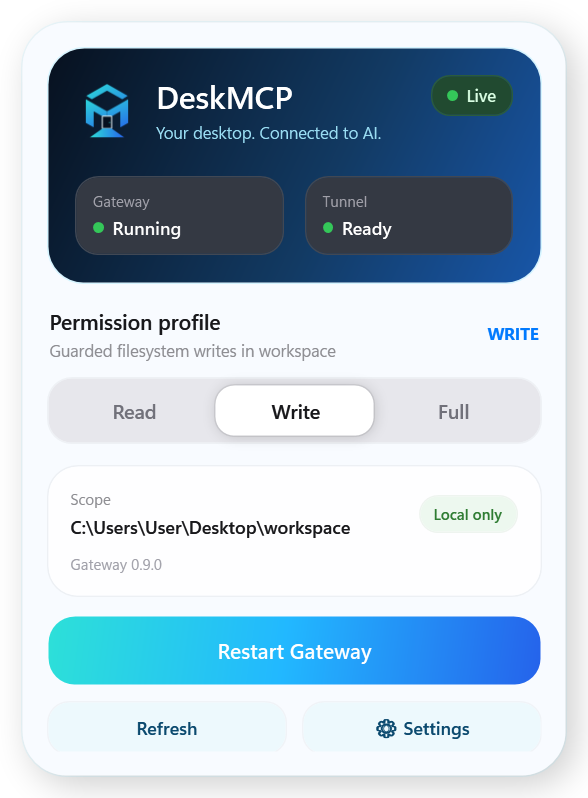
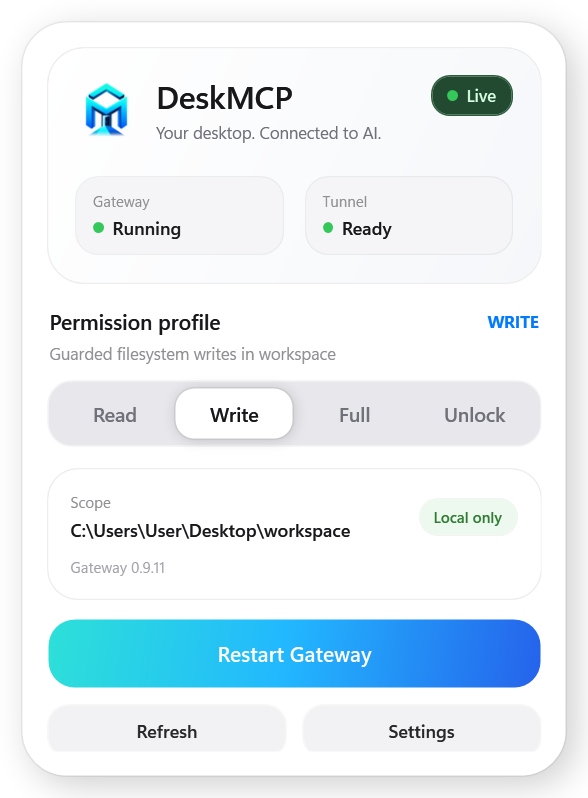
docs: sync release site with current runtime

diff --git a/site/index.html b/site/index.html
@@ -39,13 +39,13 @@
       <div class="hero-copy">
         <div class="hero-label">LOCAL-FIRST · OPEN SOURCE · WINDOWS</div>
         <h1>Your desktop.<br /><span>Connected to AI.</span></h1>
-        <p>DeskMCP gives ChatGPT a controlled path to Windows files, background terminal sessions and opt-in visible CMD or PowerShell consoles — while permission decisions and UAC approval stay on your machine.</p>
+        <p>DeskMCP gives ChatGPT a controlled path to Windows files, owned terminal sessions, Windows UI, isolated Browser Automation and multi-agent virtual desktops — while permission decisions and UAC approval stay on your machine.</p>
         <div class="hero-actions">
           <a class="button button-primary" href="#download">Download for Windows <span>↗</span></a>
           <a class="button button-ghost" href="#start">Read the quick start</a>
         </div>
         <div class="hero-proof">
-          <span><b>26</b> MCP tools</span>
+          <span><b>27</b> MCP tools</span>
           <span><b>2</b> native Windows architectures</span>
           <span><b>0</b> cloud-side filesystem policy</span>
         </div>
@@ -71,7 +71,7 @@
 
     <section class="signal-strip" aria-label="DeskMCP key product facts">
       <div><span>01</span><strong>Local-first</strong><small>Policy enforcement on your PC</small></div>
-      <div><span>02</span><strong>Stable surface</strong><small>26 discoverable MCP tools</small></div>
+      <div><span>02</span><strong>Stable surface</strong><small>27 discoverable MCP tools</small></div>
       <div><span>03</span><strong>Native Windows</strong><small>x64 + ARM64 installers</small></div>
       <div><span>04</span><strong>Open source</strong><small>Apache-2.0 · public releases</small></div>
     </section>
@@ -88,7 +88,7 @@
             <article>
               <span>01</span>
               <h3>See the boundary.</h3>
-              <p>Gateway health, Tunnel status, Workspace and permission profile are visible in one native control surface.</p>
+              <p>Gateway health, Tunnel status, Workspace, permission profile and the Agent Desktop pool are visible in one native control surface.</p>
             </article>
             <article>
               <span>02</span>
@@ -98,7 +98,7 @@
             <article>
               <span>03</span>
               <h3>Keep the boundary local.</h3>
-              <p>The Tunnel transports requests. DeskMCP still decides locally whether filesystem or process work is allowed.</p>
+              <p>The Tunnel transports requests. DeskMCP still decides locally whether filesystem, process, Browser Automation or Windows Computer Use is allowed.</p>
             </article>
           </div>
         </div>
@@ -145,17 +145,19 @@
         <div class="product-story-copy">
           <span class="micro">DESIGNED TO STAY OUT OF THE WAY</span>
           <h2>The control panel<br />is the contract.</h2>
-          <p>One glance tells you whether the bridge is alive, which profile is active, what Workspace is in scope, and whether your Tunnel is ready.</p>
+          <p>One glance tells you whether the bridge is alive, which profile is active, what Workspace is in scope, whether your Tunnel is ready, and which Agent Desktops are available.</p>
           <ul>
             <li><span></span> Live Gateway and Tunnel status</li>
+            <li><span></span> Agent Desktop pool for concurrent isolated agent control</li>
+            <li><span></span> Browser Automation with DeskMCP-owned profiles and lease lifetime</li>
+            <li><span></span> Windows Computer Use with UI Automation and fresh observations</li>
             <li><span></span> Hidden background terminals remain the default</li>
             <li><span></span> Opt-in visible CMD / PowerShell with <code>window_mode: "visible"</code></li>
-            <li><span></span> Elevation is independent from console visibility</li>
-            <li><span></span> Windows <code>runas</code> + UAC supports hidden or visible admin processes</li>
+            <li><span></span> Windows <code>runas</code> + UAC for hidden or visible admin processes</li>
             <li><span></span> Hidden, visible and elevated process trees remain DeskMCP-owned</li>
             <li><span></span> Local DPAPI protection for runtime secrets</li>
           </ul>
-          <p>Visible consoles receive keyboard input directly from their Windows window. <code>desktop_interact_process</code> remains for hidden DeskMCP-managed terminal sessions.</p>
+          <p>Agent Desktop, Browser Automation and Computer Use stay behind local policy and lease/observation checks; visible consoles still receive keyboard input directly from their Windows window.</p>
         </div>
         <div class="product-story-visual">
           <div class="story-glow" aria-hidden="true"></div>
@@ -182,7 +184,8 @@
           <article><span>02</span><div><strong>Workspace scoped</strong><p>Read, Write and Full enforce canonical path boundaries before forwarding work.</p></div></article>
           <article><span>03</span><div><strong>Owned process sessions</strong><p>Hidden, visible and elevated consoles stay attached to DeskMCP-owned process trees instead of arbitrary Windows PID control.</p></div></article>
           <article><span>04</span><div><strong>Native UAC boundary</strong><p>Administrator processes use Windows <code>runas</code> and still require local approval whether their console is hidden or visible. DeskMCP does not bypass UAC.</p></div></article>
-          <article><span>05</span><div><strong>Metadata-only audit</strong><p>No file contents, secrets, terminal I/O or real PIDs in audit logs.</p></div></article>
+          <article><span>05</span><div><strong>Isolated agent control</strong><p>Agent Desktop, Browser Automation and Windows Computer Use stay behind lease, observation and local permission checks.</p></div></article>
+          <article><span>06</span><div><strong>Metadata-only audit</strong><p>No file contents, secrets, terminal I/O or real PIDs in audit logs.</p></div></article>
         </div>
       </div>
     </section>

diff --git a/RELEASE_CHECKLIST.md b/RELEASE_CHECKLIST.md
@@ -23,7 +23,7 @@ Run `scripts\check-release-readiness.ps1` before publishing an installer.
 - [x] First Run Wizard: Workspace → Tunnel → ChatGPT connection flow.
 - [x] Sensitive search paths are excluded before ripgrep reads file contents.
 - [x] Tray exit semantics distinguish keeping services running from quitting DeskMCP.
-- [x] Release-stage smoke: read-only profile, 13 tools, single instance, Node cleanup, directory lockcheck.
+- [x] Release-stage smoke: read-only profile, 27 tools, single instance, Node cleanup, directory lockcheck.
 - [x] Installer smoke: install, injected failure rollback, upgrade, interrupted-install recovery, runtime, uninstall all pass.
 - [x] Safe-update contract: manifest schema v2, immutable-release/digest/size gates, optional local Authenticode publisher verification, and post-install profile verification.
 - [x] Upgrade Setup preserves an existing **Start with Windows** choice instead of silently enabling it.
@@ -58,7 +58,7 @@ Run `scripts\check-release-readiness.ps1` before publishing an installer.
 
 - [ ] Install under a fresh Windows user with **Start DeskMCP with Windows** enabled.
 - [ ] Sign out/in (or reboot with approval) and verify the Control Panel starts quietly and Gateway becomes Ready.
-- [ ] Complete First Run from the installed build and confirm ChatGPT scans exactly 13 tools.
+- [ ] Complete First Run from the installed build and confirm ChatGPT scans exactly 27 tools.
 - [ ] Verify normal uninstall keeps DeskMCP user data; separately verify explicit purge removes DeskMCP AppData only.
 
 ## Documented limitations — not blockers for the current win-x64 release

diff --git a/README.md b/README.md
@@ -32,7 +32,7 @@ The default profile is **Read-only**. Filesystem access is scoped to a workspace
   <img src="docs/images/control-panel.png" alt="DeskMCP Control Panel" width="430" />
 </p>
 
-The tray Control Panel shows Gateway/Tunnel health, the active permission profile, the selected workspace, Windows startup settings, and Tunnel configuration without exposing secrets.
+The tray Control Panel shows Gateway/Tunnel health, the active permission profile, the selected workspace, Agent Desktop bindings, Windows startup settings, and Tunnel configuration without exposing secrets.
 
 ## Windows quick start
 

diff --git a/CONTRIBUTING.md b/CONTRIBUTING.md
@@ -38,7 +38,7 @@ scripts\build-installer.cmd
 ```
 The release pipeline is expected to prove:
 
-- 13 production MCP tools are discoverable.
+- Exactly 27 production MCP tools are discoverable.
 - Read Only remains the default.
 - Single Instance works.
 - Gateway/DeskMCP backend child processes are cleaned up.
